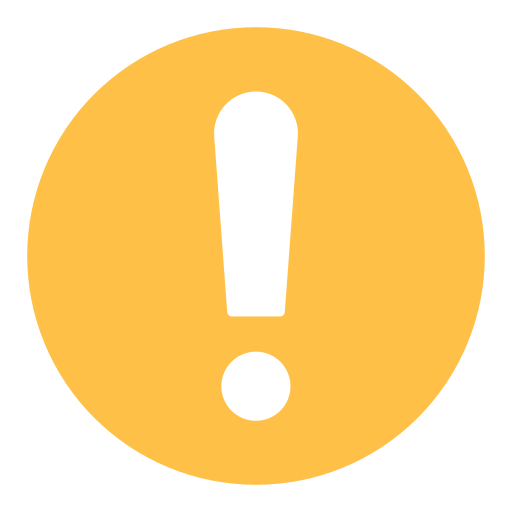
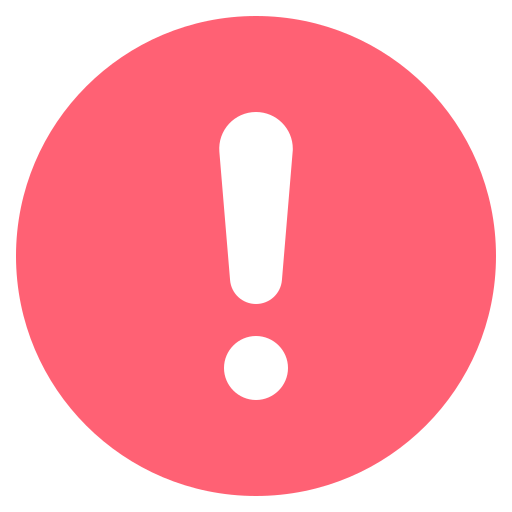
:art: Change warning UI

diff --git a/www/style.css b/www/style.css
@@ -452,11 +452,27 @@ span.purple {
 }
 
 
-.box-warning {
+.box-error {
   background-image: url('warning.png');
-
+   /* 
   border: 2px solid #FFC048;
+  */
   
+  border: 2px solid #FF6174; 
+
+  padding: 1em 1em 1em 4em;
+  margin: 10px 0;
+  
+  background-position: 0.5em 0.5em;
+  background-size: 2.5em;
+  background-repeat: no-repeat;
+  
+}
+
+.box-warning {
+  background-image: url('empty-folder.png');
+  
+  border: 2px solid #FFC048; 
 
   padding: 1em 1em 1em 4em;
   margin: 10px 0;
